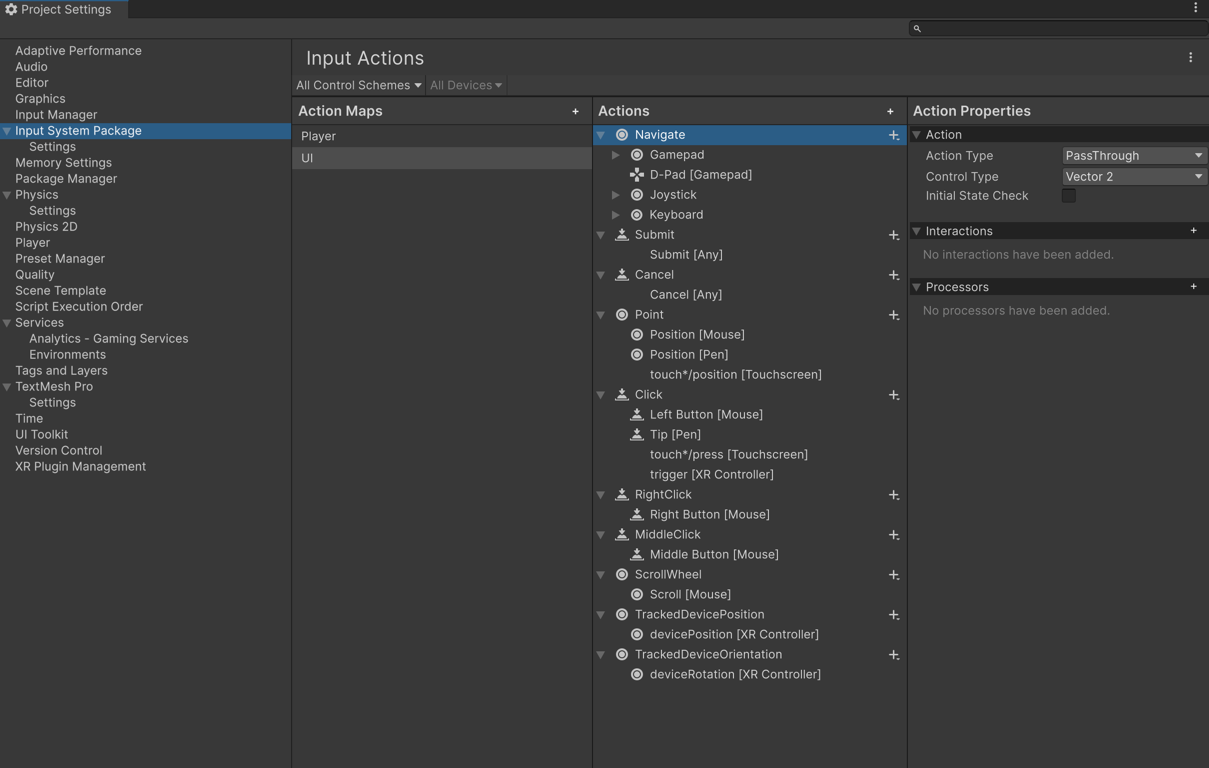
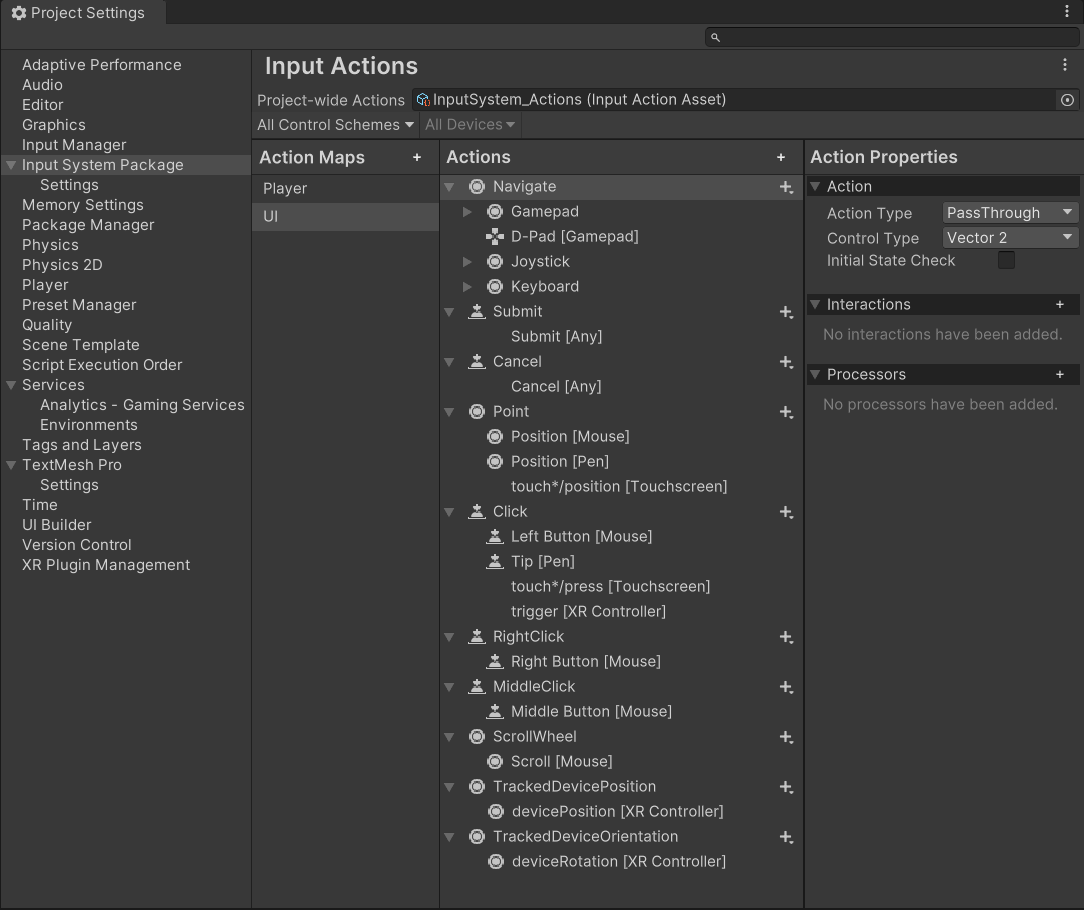
Doc and UI updates reflecting change to storing project wide actions as asset

diff --git a/Packages/com.unity.inputsystem/InputSystem/Editor/InputAssetEditorUtils.cs b/Packages/com.unity.inputsystem/InputSystem/Editor/InputAssetEditorUtils.cs
@@ -87,7 +87,7 @@ namespace UnityEngine.InputSystem.Editor
         {
             if (current == target)
             {
-                EditorGUILayout.HelpBox($"This asset contains the currently active {entity} for the Input System.", MessageType.Info);
+                EditorGUILayout.HelpBox($"These actions are assigned as the {entity}.", MessageType.Info);
                 return;
             }
 
@@ -95,9 +95,9 @@ namespace UnityEngine.InputSystem.Editor
             if (current != null)
                 currentlyActiveAssetsPath = AssetDatabase.GetAssetPath(current);
             if (!string.IsNullOrEmpty(currentlyActiveAssetsPath))
-                currentlyActiveAssetsPath = $"The currently active {entity} are stored in {currentlyActiveAssetsPath}. ";
-            EditorGUILayout.HelpBox($"Note that this asset does not contain the currently active {entity} for the Input System. {currentlyActiveAssetsPath??""}Click \"Make Active\" below to make \"{targetName}\" the active one.", MessageType.Warning);
-            if (GUILayout.Button($"Make active", EditorStyles.miniButton))
+                currentlyActiveAssetsPath = $" The actions currently assigned as the {entity} are: {currentlyActiveAssetsPath}. ";
+            EditorGUILayout.HelpBox($"These actions are not assigned as the {entity} for the Input System. {currentlyActiveAssetsPath??""}", MessageType.Warning);
+            if (GUILayout.Button($"Assign as the {entity}", EditorStyles.miniButton))
                 apply(target);
         }
 

diff --git a/Packages/com.unity.inputsystem/Documentation~/ProjectWideActions.md b/Packages/com.unity.inputsystem/Documentation~/ProjectWideActions.md
@@ -1,0 +1,50 @@
+---
+uid: project-wide-actions
+---
+# Project-Wide Actions
+
+The Input System stores your configuration of [Input Actions](Actions.md) and their associated [Bindings](ActionBindings.md), [Action Maps](ActionsEditor.html#configure-action-maps) and [Control Schemes](ActionBindings.md#control-schemes) in an [Action Asset](ActionAssets.md) file.
+
+While it's possible to have more than one Action Asset in a project, most projects only ever need a single Action Asset. This is because an Action Asset can contain multiple [Action Maps](ActionsEditor.html#configure-action-maps), which each containing a set of actions relevant to the various parts of your project (such as UI navigation, Gameplay, etc).
+
+The Input System's **project-wide actions** feature allows you to choose an individual Action Asset as being available project-wide, which means the actions within that asset are available more conveniently through the Input System API without needing to set up a reference to the Actions Asset.
+
+Therefore, unless you have specific project requirements that require more than one Action Asset, the recommended workflow is to use a single Action Asset assigned as the project-wide actions, as described below.
+
+## Create and Assign a Project-Wide Actions Asset
+
+To create and assign the current project-wide actions, go to **Edit** > **Project Settings** > **Input System Package**.
+
+If you don't yet have an Action Asset assigned as project-wide in your project, the Input System Package settings window displays an empty field for you to assign your action asset, and a button allowing you to create and assign one. 
+![image alt text](./Images/InputSettingsNoProjectWideAsset.png)
+*The Input System Package Project Settings with no project-wide actions assigned*
+
+> **Note:** If you already have an Action Asset assigned, this button is not displayed, and instead the Actions Editor is displayed, allowing you to edit the project-wide actions.
+
+To create an Action Asset with default actions pre-configured, click  **"Create a new Project-wide Input Action Asset"**. The asset is created in your project, and automatically assigned as the **Active Input Action Asset**.
+
+## Edit project-wide actions
+
+Once you have created and assigned project-wide actions, the Input System Package page in Project Settings displays the **Actions Editor** interface. Read more about how to use the [Actions Editor](ActionsEditor.md) to configure your actions.
+
+![image alt text](./Images/ProjectSettingsInputActionsSimpleShot.png)
+*The Input System Package Project Settings after creating and assigning the default actions*
+
+## The default input actions
+
+When you create and assign default project-wide actions using the method described above, the Action Asset comes pre-configured with some default Actions such as "Move", "Jump", and more, which suit many common app and game scenarios. They are configured to read input most types of input controller such as Keyboard, Mouse, Gamepad, Touchscreen and XR.
+
+These default actions mean that in many cases, you can start scripting with the Input System without any configuration by referring to the names of the default actions that are already configured for you. You can also rename and reconfigure the default actions, or delete these default configurations to suit your needs.
+
+If you’d like to delete all the default actions so that you can start from an empty configuration, you don’t need to delete the individual actions one-by-one. You can delete the default Action Maps, which deletes all the Actions contained in those maps in one go.
+
+## Using project-wide actions in code
+
+The benefit of assign an Action Asset as the project-wide actions is that you can access the actions directly through the [`InputSystem.actions`](../api/UnityEngine.InputSystem.InputSystem.html) property directly, rather than needing to set up a reference to your Action Asset first.
+
+For example, you can get a reference to an action named "Move" in your project-wide actions using a line of code like this:
+
+```
+  InputSystem.actions.FindAction("Move");
+```
+

diff --git a/Packages/com.unity.inputsystem/Documentation~/ActionsEditor.md b/Packages/com.unity.inputsystem/Documentation~/ActionsEditor.md
@@ -1,28 +1,26 @@
 ---
 uid: input-system-configuring-input
 ---
-# Configuring Input
+# Configuring Input with the Actions Editor
 
-The **Input Actions Editor** allows you to configure [Input Actions](Actions.md) and their associated [Bindings](ActionBindings.md) and [Control Schemes](ActionBindings.md#control-schemes).
+The **Input Actions Editor** allows you to edit [Action Assets](ActionAssets.md), which contain a saved configuration of [Input Actions](Actions.md) and their associated [Bindings](ActionBindings.md), [Action Maps](ActionsEditor.html#configure-action-maps) and [Control Schemes](ActionBindings.md#control-schemes).
 
-Open the Input Actions settings by going to **Edit** > **Project Settings** > **Input System Package** > **Input Actions**
+### Action Assets and Project-Wide Actions
 
-![image alt text](./Images/ProjectSettingsInputActions.png)
-*The Input Actions editor in the Project Settings window*
+The typical workflow for most projects is to have a single Action Asset, which is assigned as the **project-wide actions**. If you have not yet created and assigned an Actions Asset as the project-wide actions, the recommended workflow is to do this first. Read more about [project-wide actions](ProjectWideActions.md).
 
-The Input Action editor is divided into three panels (marked A, B & C above).
+### Opening the Actions Editor
 
-### The default Actions
+The **Input Actions Editor** is an editor window displayed when you open an Action Asset by double-clicking it.
 
-The Input System comes pre-configured with some default Actions such as "Move", "Jump", and more, which suit many common app and game scenarios. They are configured to read input most types of input controller such as Keyboard, Mouse, Gamepad, Touchscreen and XR.
+It is also displayed in the Project Settings window under **Edit** > **Project Settings** > **Input System Package** if you have an Action Asset assigned as project-wide.
 
-When you first open the Input Actions Editor, you can see the default action maps and actions displayed.
-
-These default actions mean that in many cases, you can start scripting with the Input System without any configuration by referring to the names of the default actions that are already configured for you. You can also rename and reconfigure the default actions, or delete these default configurations to suit your needs.
-
-If you’d like to delete all the default actions so that you can start from an empty configuration, you don’t need to delete the individual actions one-by-one. You can delete the default Action Maps, which deletes all the Actions contained in those maps in one go.
+![image alt text](./Images/ActionsEditorCallout.png)
+*The Input Actions editor, displaying the default actions*
 
 ### The Actions Editor panels
+
+The Input Actions editor is divided into three panels (marked A, B & C above).
 
 |Name|Description|
 |-|-|
@@ -43,6 +41,8 @@ If you’d like to delete all the default actions so that you can start from an 
 * To rename an existing Action, either long-click the name, or right-click the Action Map and select __Rename__ from the context menu.
 * To delete an existing Action, either right-click it and select __Delete__ from the context menu.
 * To duplicate an existing Action, either right-click it and select __Duplicate__ from the context menu.
+* 
+
 
 If you select an Action, you can edit its properties in the right-hand pane of the window:
 

diff --git a/Packages/com.unity.inputsystem/Documentation~/Actions.md b/Packages/com.unity.inputsystem/Documentation~/Actions.md
@@ -30,7 +30,7 @@ When scripting with Actions in the Input System, there are number of important c
 
 |Class|Description|
 |-----|-----------|
-|`InputSystem.actions`|A reference to the set of actions configured in the [Input Actions editor](ActionsEditor.md). |
+|[`InputSystem.actions`](../api/UnityEngine.InputSystem.InputSystem.html)|A reference to the set of actions configured in the [Input Actions editor](ActionsEditor.md). |
 |[`InputActionMap`](../api/UnityEngine.InputSystem.InputActionMap.html)|A named collection of Actions. The API equivalent to an entry in the "Action Maps" column of the [Input Actions editor](ActionsEditor.md).|
 |[`InputAction`](../api/UnityEngine.InputSystem.InputAction.html)|A named Action that can return the current value of the controls that it is bound to, or can trigger callbacks in response to input. The API equivalent to an entry in the "Actions" column of the [Input Actions editor](ActionsEditor.md).|
 |[`InputBinding`](../api/UnityEngine.InputSystem.InputBinding.html)|The relationship between an Action and the specific device controls for which it receives input. For more information about Bindings and how to use them, see [Action Bindings](ActionBindings.md).|
@@ -45,7 +45,7 @@ The simplest way to create actions is to use the [Input Actions editor](ActionsE
 
 However, because the input system API is very open, there are many other ways to create actions which may suit less common scenarios. For example:
 
-- You can create [Input Actions assets](ActionAssets.md) which define a set of action data similar to that defined in Project Settings, but is instead stored in a self-contained asset (this is an outdated workflow but is still supported).
+- You can create [Input Action assets](ActionAssets.md) which define a set of action data similar to that defined in Project Settings, but is instead stored in a self-contained asset (this is an outdated workflow but is still supported).
 - You can manually load Actions from JSON data.
 - You can create Actions entirely in code, including setting up the bindings.
 
@@ -85,7 +85,7 @@ public class ExampleScript : MonoBehaviour
 
 The result is similar to using an Actions defined in the Input Actions editor, except the Actions are defined in the GameObject's properties and saved as Scene or Prefab data, instead of in a dedicated Asset.
 
-When you embed actions in a MonoBehaviour and assign that MonoBehaviour to a GameObject, the GameObject's Inspector window displays an interface similar to the Actions Asset window, which allows you to set up the bindings for those actions. For example:
+When you embed actions in a MonoBehaviour and assign that MonoBehaviour to a GameObject, the GameObject's Inspector window displays an interface similar to the Action Asset window, which allows you to set up the bindings for those actions. For example:
 
 ![MyBehavior Inspector](Images/Workflow-EmbeddedActionsInspector.png)
 

diff --git a/Packages/com.unity.inputsystem/Documentation~/QuickStartGuide.md b/Packages/com.unity.inputsystem/Documentation~/QuickStartGuide.md
@@ -5,16 +5,22 @@ This page has a brief description of how to quickly start using the Input System
 
 First, install the Input System package. For information on how to install the new Input System, see [Installation](Installation.md).
 
+## Create and assign the default project-wide actions
+
+The input system stores your input configuration in an **Actions Asset**. When you first install the input system package, you must create this Actions Asset.
+
+You can do this by going to by going to **Edit** > **Project Settings** > **Input System Package** > **Input Actions**, then click the button labelled **Create and assign a default project-wide Action Asset**.
+
+![The Input Actions Settings window](Images/InputSettingsNoProjectWideAsset.png)
 
 ## View and edit the default input settings
 
-The **Input Actions Settings window** allows you to view and edit the default input settings. Open the  Input Actions Settings window by going to **Edit** > **Project Settings** > **Input System Package** > **Input Actions**.
+Once you have created and assigned some project-wide actions, the **Input Actions Settings window** allows you to view and edit your input configuration.
 
 ![The Input Actions Settings window](Images/ProjectSettingsInputActionsSimpleShot.png)
+*The input actions settings window displaying the default actions*
 
-You can use this window to view all the default Actions to find out their names, value types, and what their corresponding bindings. You can also modify, delete, or add new Actions here.
-
-> **Note:** If you create more than one Action with same name in different Action Maps, you must specify the Action Map and the Action Name separated by a `/` character when using FindAction. For example: `InputSystem.actions.FindAction("Player/Move")`
+You can use this window to view the Actions to find out their names, value types, and what their corresponding bindings. You can also edit, delete, or add new Actions here.
 
 [Read more about using the Input Action Settings Window.](ActionsEditor.md)
 
@@ -84,3 +90,5 @@ public class Example : MonoBehaviour
 These actions named "Move" and "Jump" in this script work straight away with no configuration required because they match the names of some of the pre-configured defaults in the Input System package.
 
 > **Note**: Different types of Action have different value types, and so have different methods to access their value, which is why you see `.ReadValue<Vector2>()` used to read a 2D axis, and `.IsPressed()` to read a button state, in the example above.
+
+> **Note:** If you create more than one Action with same name in different Action Maps, you must specify the Action Map and the Action Name separated by a `/` character when using FindAction. For example: `InputSystem.actions.FindAction("Player/Move")`

diff --git a/Packages/com.unity.inputsystem/Documentation~/Concepts.md b/Packages/com.unity.inputsystem/Documentation~/Concepts.md
@@ -16,3 +16,4 @@ This page introduces the basic concepts that relate to working with the Input Sy
 |[**Action Map**](ActionsEditor.html#configure-action-maps) | Action Maps allow you to organise Actions into groups which represent specific situations where a set of actions make sense together. You can simultaneously enable or disable all Actions in an action map, so it is useful to group Actions in Action Maps by the context in which they are relevant. For example, you might have one action map for controlling a player, and another for interacting with your game's UI.|
 |[**Binding**](ActionBindings.html)| A connection defined between an **Action** and specific device controls. For example, your "Move" action might have bindings to the arrow keys and WSAD keys on the keyboard, and the left stick on a joypad, and the primary 2D axis on a VR controller. Multiple bindings like this means your game can accept cross-platform input. |
 |[**Your Action Code**](RespondingToActions.md)| The part of your script which is executed based on the actions you have configured. In your code, you can use references to actions to either read the current value or state of the action (also known as "polling"), or set up a callback to call your own method when actions are performed.|
+|[**Action Asset**](ActionAssets.md) | An asset type which contains a saved configuration of Action Maps, Actions and Bindings. You can specify one Action Asset in your project as the [project-wide actions](ProjectWideActions.md), which allows you to easily reference those actions in code. |

diff --git a/Packages/com.unity.inputsystem/Documentation~/Workflow-Actions.md b/Packages/com.unity.inputsystem/Documentation~/Workflow-Actions.md
@@ -11,7 +11,11 @@ In this workflow, you configure Actions in the [**Input Actions** editor](Action
 
 ## Configure Actions in the Actions Editor
 
-Open the Input Actions editor by going to **Edit** > **Project Settings** > **Input System Package** > **Input Actions**
+Open the Input System settings by going to **Edit** > **Project Settings** > **Input System Package** > **Input Actions**.
+
+If you have not yet created and assigned the default [project-wide actions](ProjectWideActions.md), the Input System settings window displays a button to do this.
+
+Once you have created and assigned the default project-wide actions, the Actions Editor is displayed:
 
 ![image alt text](./Images/ProjectSettingsInputActionsSimpleShot.png)
 *The Input Actions editor in the Project Settings window*
@@ -92,3 +96,5 @@ public class Example : MonoBehaviour
 ```
 
 > **Note:** You should avoid using `FindAction` in your Update() loop, because it performs a string-based lookup which could impact performance. This is why the Action refeferences in the example above are found during the Start() functionm, and stored in variables after finding them.
+
+> **Note:** The [InputSystem.actions](../api/UnityEngine.InputSystem.InputSystem.html) API refers specifically to the Action Asset assigned as the [project-wide actions](ProjectWideActions.md). Most projects only require one Action Asset, but if you are using more than one Action Asset, you must create a reference using the type InputActionAsset to the asset you wish to access.

diff --git a/Packages/com.unity.inputsystem/Documentation~/PlayerInput.md b/Packages/com.unity.inputsystem/Documentation~/PlayerInput.md
@@ -12,7 +12,7 @@ The **Player Input** component represents a single player, and that player's ass
 
 ![PlayerInput](Images/PlayerInput.png)
 
-*Above, the Player Input component as visible in the inspector, with an Actions Asset called "ExampleActions" assigned.*
+*Above, the Player Input component as visible in the inspector, with an Action Asset called "ExampleActions" assigned.*
 
 Each [`PlayerInput`](../api/UnityEngine.InputSystem.PlayerInput.html) instance represents a separate player or user. You can use multiple `PlayerInput` instances at the same time (although not on the same `GameObject`) to represent local multiplayer setups. The Input System pairs each player to a unique set of Devices that the player uses exclusively, but you can also manually pair Devices in a way that enables two or more players to share a Device (for example, left/right keyboard splits or hot seat use).
 
